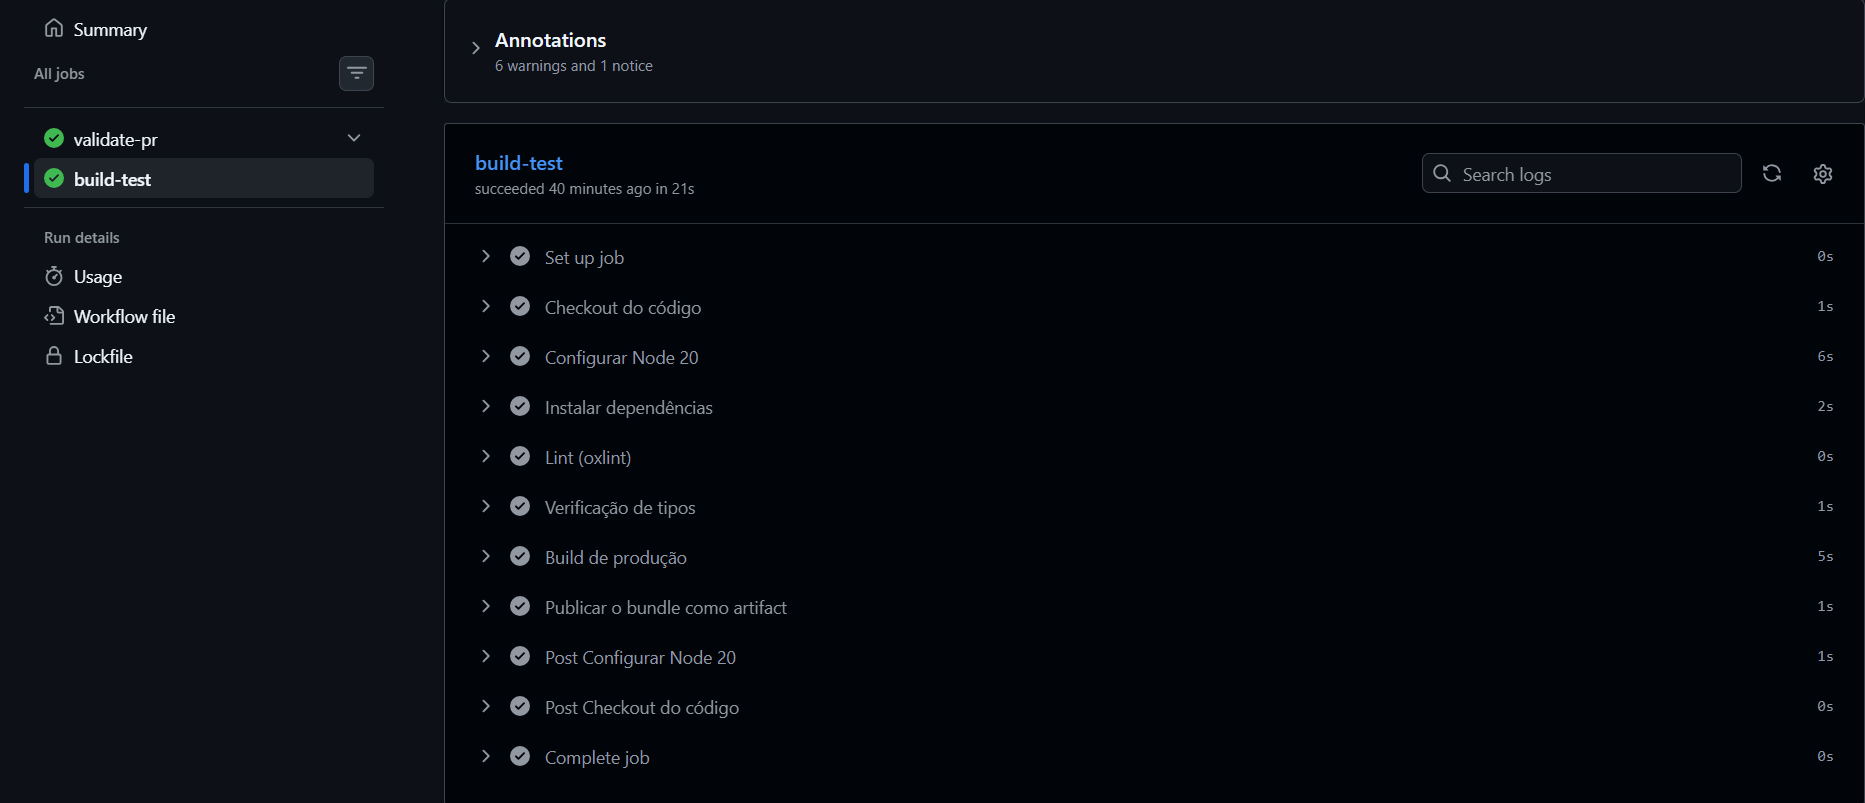
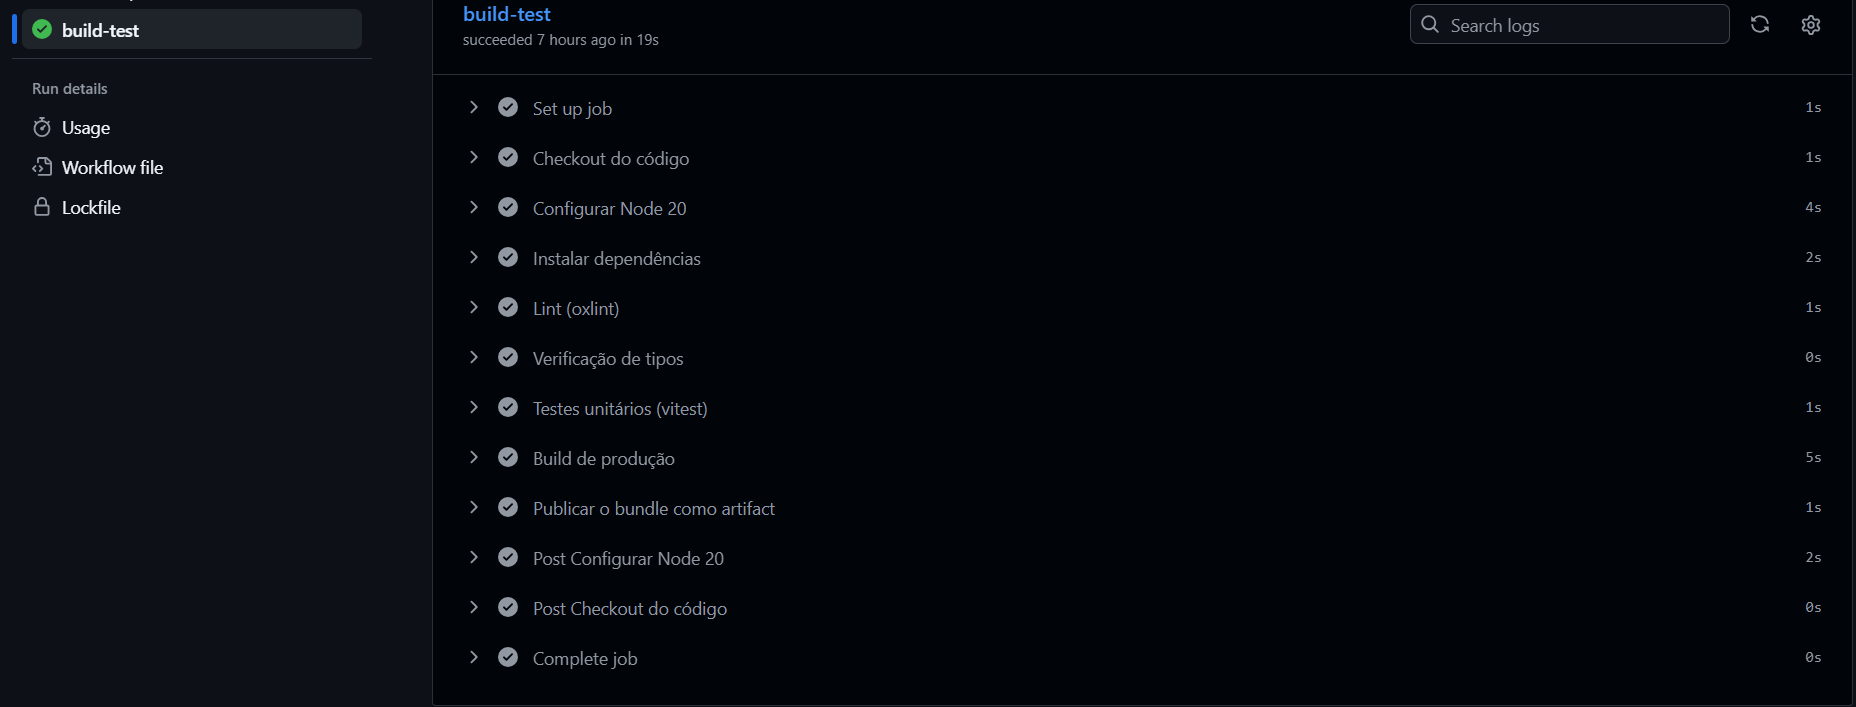
fix: arruma print do teste do website

diff --git a/docs/padroes-de-teste.md b/docs/padroes-de-teste.md
@@ -6,15 +6,13 @@ Este documento resume como os testes são feitos em cada repositório do VOLTA: 
 
 ## 2. Visão geral
 
-| Repositório | Ferramentas | Tipos de teste | Quantidade aproximada | Cobertura mínima exigida no CI |
-|---|---|---|---|---|
-| `volta-api-core` | JUnit 5, Mockito, AssertJ, Spring MockMvc | Unitário, validação de DTO, segurança | 253 testes | 35% das linhas (JaCoCo) |
-| `volta-api-redis` | JUnit 5, AssertJ, Spring Boot Test, Redis real | Unitário, integração HTTP, integração com Redis | 148 testes | 85% das linhas (JaCoCo) |
-| `volta-chatbot` | pytest, httpx, classes fake | Unitário, API (rotas), contrato dos agentes | 132 testes | Sem mínimo definido |
-| `volta-mobile` | JUnit 4 | Unitário e contrato JSON | 83 testes | Sem mínimo definido |
-| `volta-website-dad` | — | Nenhum teste automatizado | 0 | Não se aplica |
-
-Os números são contagens do código, não resultado de execução.
+| Repositório | Ferramentas | Tipos de teste | Quantidade aproximada |
+|---|---|---|---|
+| `volta-api-core` | JUnit 5, Mockito, AssertJ, Spring MockMvc | Unitário, validação de DTO, segurança | 253 testes |
+| `volta-api-redis` | JUnit 5, AssertJ, Spring Boot Test, Redis real | Unitário, integração HTTP, integração com Redis | 148 testes |
+| `volta-chatbot` | pytest, httpx, classes fake | Unitário, API (rotas), contrato dos agentes | 132 testes |
+| `volta-mobile` | JUnit 4 | Unitário e contrato JSON | 83 testes |
+| `volta-website-dad` | Vitest | Unitário (funções e regras do painel) | 210 casos em 14 arquivos |
 
 ## 3. Princípios comuns
 
@@ -27,181 +25,44 @@ Os números são contagens do código, não resultado de execução.
 
 ## 4. `volta-api-core` — API principal
 
-### 4.1. Organização
-
-Os testes ficam em `src/test/java/com/volta/api/`, com a mesma estrutura dos pacotes do código:
-
-| Pasta | O que testa |
-|---|---|
-| `service/` | Regras de negócio de cada service (ocorrências, coletas, usuários, ESG…) |
-| `security/` | Token JWT, filtro de autenticação, código de recuperação de senha e permissões por perfil |
-| `handler/` | Respostas de erro (404, 409, 403…) |
-| `dto/` | Regras de validação dos dados de entrada, como CNPJ |
-| `enums/` e `utils/` | Regras de classes pequenas e funções auxiliares |
-| `support/` | Fábricas de dados de teste (`UserFixtures`, `CollectionFixtures`, `WasteTypeFixtures`) |
-
-### 4.2. Padrões usados
-
-| Padrão | Como aparece | Para que serve |
-|---|---|---|
-| **Teste unitário com mocks** | `@ExtendWith(MockitoExtension.class)` e `@Mock` para repositórios | Testar o service sem banco de dados |
-| **Fixtures** | Classes em `support/` criam entidades e usuários prontos | Evitar repetir montagem de dados |
-| **Testes agrupados e descritivos** | `@Nested` e `@DisplayName` em português | Relatório de testes fácil de ler |
-| **Testes parametrizados** | `@ParameterizedTest` (21 usos) | Cobrir vários casos com um único teste |
-| **Teste de segurança por perfil** | `RoleAuthorizationTest` com `@WebMvcTest` e `MockMvc` | Garantir que cada rota só aceita os perfis permitidos |
-| **Verificação de chamadas** | `verify`, `never` e `ArgumentCaptor` | Conferir que o service gravou (ou não gravou) o que devia |
-| **Asserções fluentes** | AssertJ (`assertThat`, `assertThatThrownBy`) | Falhas com mensagens claras |
-| **Teste de carga do contexto** | `VoltaApiApplicationTests` | Garantir que a aplicação sobe com a configuração de teste |
-
-### 4.3. Exemplo de estrutura
-
-```java
-@ExtendWith(MockitoExtension.class)
-@DisplayName("IncidentService")
-class IncidentServiceTest {
-
-    @Mock private IncidentRepository incidentRepository;
-    private IncidentService service;
-
-    @BeforeEach
-    void setUp() {
-        service = new IncidentService(incidentRepository, /* demais dependências */);
-    }
-
-    @Nested
-    @DisplayName("ao aprovar uma ocorrência")
-    class Approve {
-        @Test
-        @DisplayName("rejeita ocorrência que não está pendente")
-        void rejectsNonPending() { /* ... */ }
-    }
-}
-```
-
-### 4.4. Cobertura e CI
-
 - O JaCoCo mede a cobertura em cada `mvn verify` e **reprova o build abaixo de 35%** das linhas.
 - Ficam fora da medição: DTOs, entidades, configurações e a classe principal.
 - O CI sobe um PostgreSQL 16 de teste, roda `mvn --batch-mode verify` e publica o relatório de cobertura como artefato.
 
 ## 5. `volta-api-redis` — Ranking e cooperativas
 
-### 5.1. Organização
-
-Testes em `src/test/java/com/volta/ranking/`, com três camadas:
-
-| Camada | Exemplos | O que testa |
-|---|---|---|
-| **Unitário** | `CooperativeScoreCalculatorTest`, `GeoDistanceTest`, `RankingServiceTest` | Cálculo de pontuação, distância e regras do serviço |
-| **Repositório** | `RankingRepositoryTest`, `CooperativeGeoRepositoryTest` | Operações de acesso ao Redis |
-| **Integração** | `*HttpIntegrationTest`, `CooperativeGeoRedisIntegrationTest` | Aplicação completa e Redis de verdade |
-
-### 5.2. Padrões usados
-
-| Padrão | Como aparece | Para que serve |
-|---|---|---|
-| **Integração HTTP real** | `@SpringBootTest` com porta aleatória e `HttpTestClient` | Testar login, permissões, validação e erros como o cliente enxerga |
-| **API externa falsa** | `FakeVoltaApi`, um servidor HTTP local que simula a `volta-api-core` | Testar a integração sem depender da API real |
-| **Redis descartável** | `CooperativeGeoRedisIntegrationTest` usa chave única por execução e apaga os dados no fim | Testar comandos reais do Redis sem sujar o ambiente |
-| **Tokens de teste** | `TestTokens` gera JWTs de cada perfil | Testar permissões por perfil e por empresa |
-| **Limpeza após cada teste** | `@AfterEach` remove os dados criados | Testes independentes entre si |
-| **Dados de teste isolados** | Valores como `UUID.randomUUID()` | Evitar colisão entre execuções |
-| **Testes de validação** | `*DTOValidationTest` | Garantir que dados inválidos recebem erro 400 |
-
-### 5.3. Cobertura e CI
-
 - O JaCoCo **reprova o build abaixo de 85%** das linhas, o critério mais rigoroso do projeto.
 - O CI sobe um Redis 7 e roda `mvn --batch-mode verify`.
 
 ## 6. `volta-chatbot` — Chatbot com IA
 
-### 6.1. Organização
-
-Os testes ficam em `tests/`, um arquivo por assunto:
-
-| Assunto | Arquivos |
-|---|---|
-| Segurança da IA | `test_guardrails.py`, `test_auth.py`, `test_operational_access.py` |
-| Fluxo de chat e agentes | `test_chat.py`, `test_graph_history.py`, `test_specialist_structured_output.py`, `test_approval.py` |
-| Busca em documentos (RAG) | `test_multi_rag.py`, `test_rag_startup.py`, `test_ingest_weight_references.py`, `test_norms_mcp.py` |
-| Dados e sessões | `test_storage.py`, `test_sessions.py`, `test_models.py` |
-| Análise de imagem e relatórios | `test_occurrences_visual.py`, `test_reports.py`, `test_predictive.py` |
-| Monitoramento | `test_observability.py`, `test_langsmith_tracing.py`, `test_model_usage.py`, `test_request_context.py` |
-| Configuração | `test_config.py` |
-
-### 6.2. Padrões usados
-
-| Padrão | Como aparece | Para que serve |
-|---|---|---|
-| **Funções de teste simples (pytest)** | `def test_...()` com `assert` | Testes curtos e diretos |
-| **Fakes escritos à mão** | `FakeRepository`, `FakeSessions`, `FakeTelemetry`, `FakeIdentityRepository` | Substituir bancos e serviços sem acessar a rede |
-| **Teste de rotas sem servidor** | `FastAPI` com `httpx.AsyncClient` e `ASGITransport` | Testar as rotas direto na memória |
-| **Substituição de dependências** | `app.dependency_overrides` / `monkeypatch` | Trocar autenticação, grafo e bancos nos testes |
-| **Nomes descritivos em inglês** | `test_masks_cpf_before_any_llm_or_database_operation` | O nome já descreve a regra |
-| **Testes das regras de segurança** | Máscara de CPF, bloqueio de *prompt injection* e frases absolutas | Garantir as proteções que não dependem da IA |
-| **Testes dos contratos** | Verificam os modelos Pydantic e a saída estruturada dos agentes | Evitar quebra entre agentes |
-
-### 6.3. Cobertura e CI
-
 O CI instala as dependências com verificação de hash, roda o `ruff` (análise estática), confere se a aplicação importa sem erro e executa `python -m pytest`, publicando o relatório em XML. Ainda não há cobertura mínima definida, e os testes não chamam modelos de IA reais.
 
 ## 7. `volta-mobile` — Aplicativo Android
 
-### 7.1. Organização
 
 Os testes unitários ficam em `app/src/test/java/com/aula/volta/`, na mesma estrutura do código:
-
-| Pasta | O que testa |
-|---|---|
-| `data/model/` | Regras dos modelos e contratos JSON (ocorrência, cooperativa, notificação, análise de IA) |
-| `data/api/` | Contrato de integração com o chatbot |
-| `data/local/`, `data/sync/` | Armazenamento local e fila de sincronização offline |
-| `data/filter/`, `data/report/` | Filtros e cálculo de relatórios (PGRS) |
-| `data/notification/`, `data/upload/` | Notificações e envio de fotos |
-| `ui/auth/` | Validação de e-mail e senha |
-| `util/` | Imagens e navegação por mapa |
-
-### 7.2. Padrões usados
-
-| Padrão | Como aparece | Para que serve |
-|---|---|---|
-| **Testes unitários em JVM (JUnit 4)** | Rodam sem emulador | Execução rápida no CI |
-| **Teste de contrato JSON** | `*ContractTest` serializam e desserializam com Gson | Detectar mudanças no formato das APIs |
-| **Dados de exemplo no `@Before`** | `OccurrenceFilterTest` monta a lista de ocorrências | Reaproveitar o cenário em todos os testes da classe |
-| **Foco em lógica pura** | Filtros, validadores, cálculos e modelos | Evita depender do Android |
-
-### 7.3. Limites atuais
-
-- Telas (Fragments) e fluxos de navegação **não têm teste automatizado**.
-- A pasta `androidTest` tem apenas o exemplo gerado pelo Android Studio (`ExampleInstrumentedTest`).
-- Por causa das classes estáticas do app (`ApiClient`, `SessionManager`), é difícil testar telas e a rede sem refatorar.
-
-### 7.4. CI
 
 O CI usa Java 17, compila o APK de debug, roda `./gradlew testDebugUnitTest` e `lintDebug`, e publica o APK e os relatórios.
 
 ## 8. `volta-website-dad` — Painel web
 
-O repositório **não tem testes automatizados** e o `package.json` não define script de teste. A qualidade é garantida por:
+Os números são contagem do código: cerca de 210 casos de teste em 14 arquivos.
 
-- **Lint** (`oxlint`) e **verificação de tipos** (TypeScript) no CI.
-- **Build de produção** no CI, que falha se houver erro de compilação.
-- **Hooks do Husky** e **commitlint**, que validam o código e as mensagens de commit.
-- **Mocks locais** (`*.mock.ts`), que permitem testar o painel manualmente sem backend.
-
-Sugestão para o futuro: adotar Vitest com Testing Library, começando pelas funções puras (`utils/`, `reducer.ts`, `adaptadores.ts`) e pelos hooks.
+- O CI executa `npm test` (`vitest run`) depois do lint e da verificação de tipos, e antes do build.
+- Outras proteções: lint (`oxlint`), tipos (TypeScript), build de produção, hooks do Husky, commitlint e os mocks locais (`*.mock.ts`) para uso do painel sem backend.
 
 ## 9. Resumo dos padrões entre os repositórios
 
 | Tema | API Core | API Redis | Chatbot | Mobile | Web |
 |---|---|---|---|---|---|
-| Testes unitários | Sim | Sim | Sim | Sim | Não |
-| Mocks ou fakes | Mockito | Servidor falso e Redis real | Classes fake | Nenhum | — |
-| Teste de integração | Parcial (`@WebMvcTest`) | Sim (HTTP e Redis) | Parcial (rotas) | Não | — |
-| Teste de segurança | Sim | Sim | Sim | Validação de senha | — |
-| Teste de contrato | Não | Sim | Sim | Sim | — |
+| Testes unitários | Sim | Sim | Sim | Sim | Sim |
+| Mocks ou fakes | Mockito | Servidor falso e Redis real | Classes fake | Nenhum | `vi.mock` e fábricas de dados |
+| Teste de integração | Parcial (`@WebMvcTest`) | Sim (HTTP e Redis) | Parcial (rotas) | Não | Não |
+| Teste de segurança | Sim | Sim | Sim | Validação de senha | Validação de senha |
+| Teste de contrato | Não | Sim | Sim | Sim | Não |
 | Cobertura medida | JaCoCo (mín. 35%) | JaCoCo (mín. 85%) | Não | Não | Não |
-| Roda no CI | Sim | Sim | Sim | Sim | Só lint, tipos e build |
+| Roda no CI | Sim | Sim | Sim | Sim | Sim |
 
 ## 10. Evidências de execução
 
@@ -245,13 +106,13 @@ Pipeline de CI (`build-test`) aprovado, incluindo os testes unitários:
 
 ### 10.5. `volta-website-dad`
 
-Checks do pull request aprovados (lint, tipos e build):
-
-![Checks do volta-website-dad](prints/website-ci.png)
-
 Pipeline de CI (`build-test`) aprovado:
 
 ![CI do volta-website-dad](prints/website-job.png)
+
+Execução local do `npm test`:
+
+![npm test no volta-website-dad](prints/website-npm-test.png)
 
 ## 11. Como executar
 
@@ -269,10 +130,11 @@ python -m pytest -q
 # volta-mobile
 ./gradlew testDebugUnitTest
 
-# volta-website-dad (sem testes; roda lint, tipos e build)
-npm run lint && npx tsc --noEmit && npm run build
+# volta-website-dad (Node 20)
+npm ci
+npm test
 ```
 
 ## 12. Conclusão
 
-As duas APIs Java têm a base de testes mais madura, com cobertura medida e mínima exigida no CI. Na API Redis, o mínimo de 85% e o uso de um Redis real dão boa confiança. O chatbot tem boa cobertura das regras de segurança e do fluxo de agentes, mas sem medição de cobertura. O app Android testa só a lógica pura.
+As duas APIs Java têm a base de testes mais madura, com cobertura medida e mínima exigida no CI. Na API Redis, o mínimo de 85% e o uso de um Redis real dão boa confiança. O chatbot tem boa cobertura das regras de segurança e do fluxo de agentes. O app Android testa só a lógica pura. O painel web agora tem testes unitários (Vitest) para as regras do painel e já os executa no CI.

diff --git a/docs/padrao-de-projeto.md b/docs/padrao-de-projeto.md
@@ -236,7 +236,7 @@ Regra do projeto: as telas **nunca** chamam a API diretamente. Tudo passa pela c
 
 - Husky, commitlint e oxlint verificam commits e código.
 - CI no GitHub Actions, Docker com nginx e deploy na Vercel.
-- Não há testes automatizados no repositório.
+- Testes unitários com Vitest (`src/testes/`) rodam no CI. Detalhes em [padroes-de-teste.md](padroes-de-teste.md).
 
 ## 8. Padrões comuns aos repositórios
 
